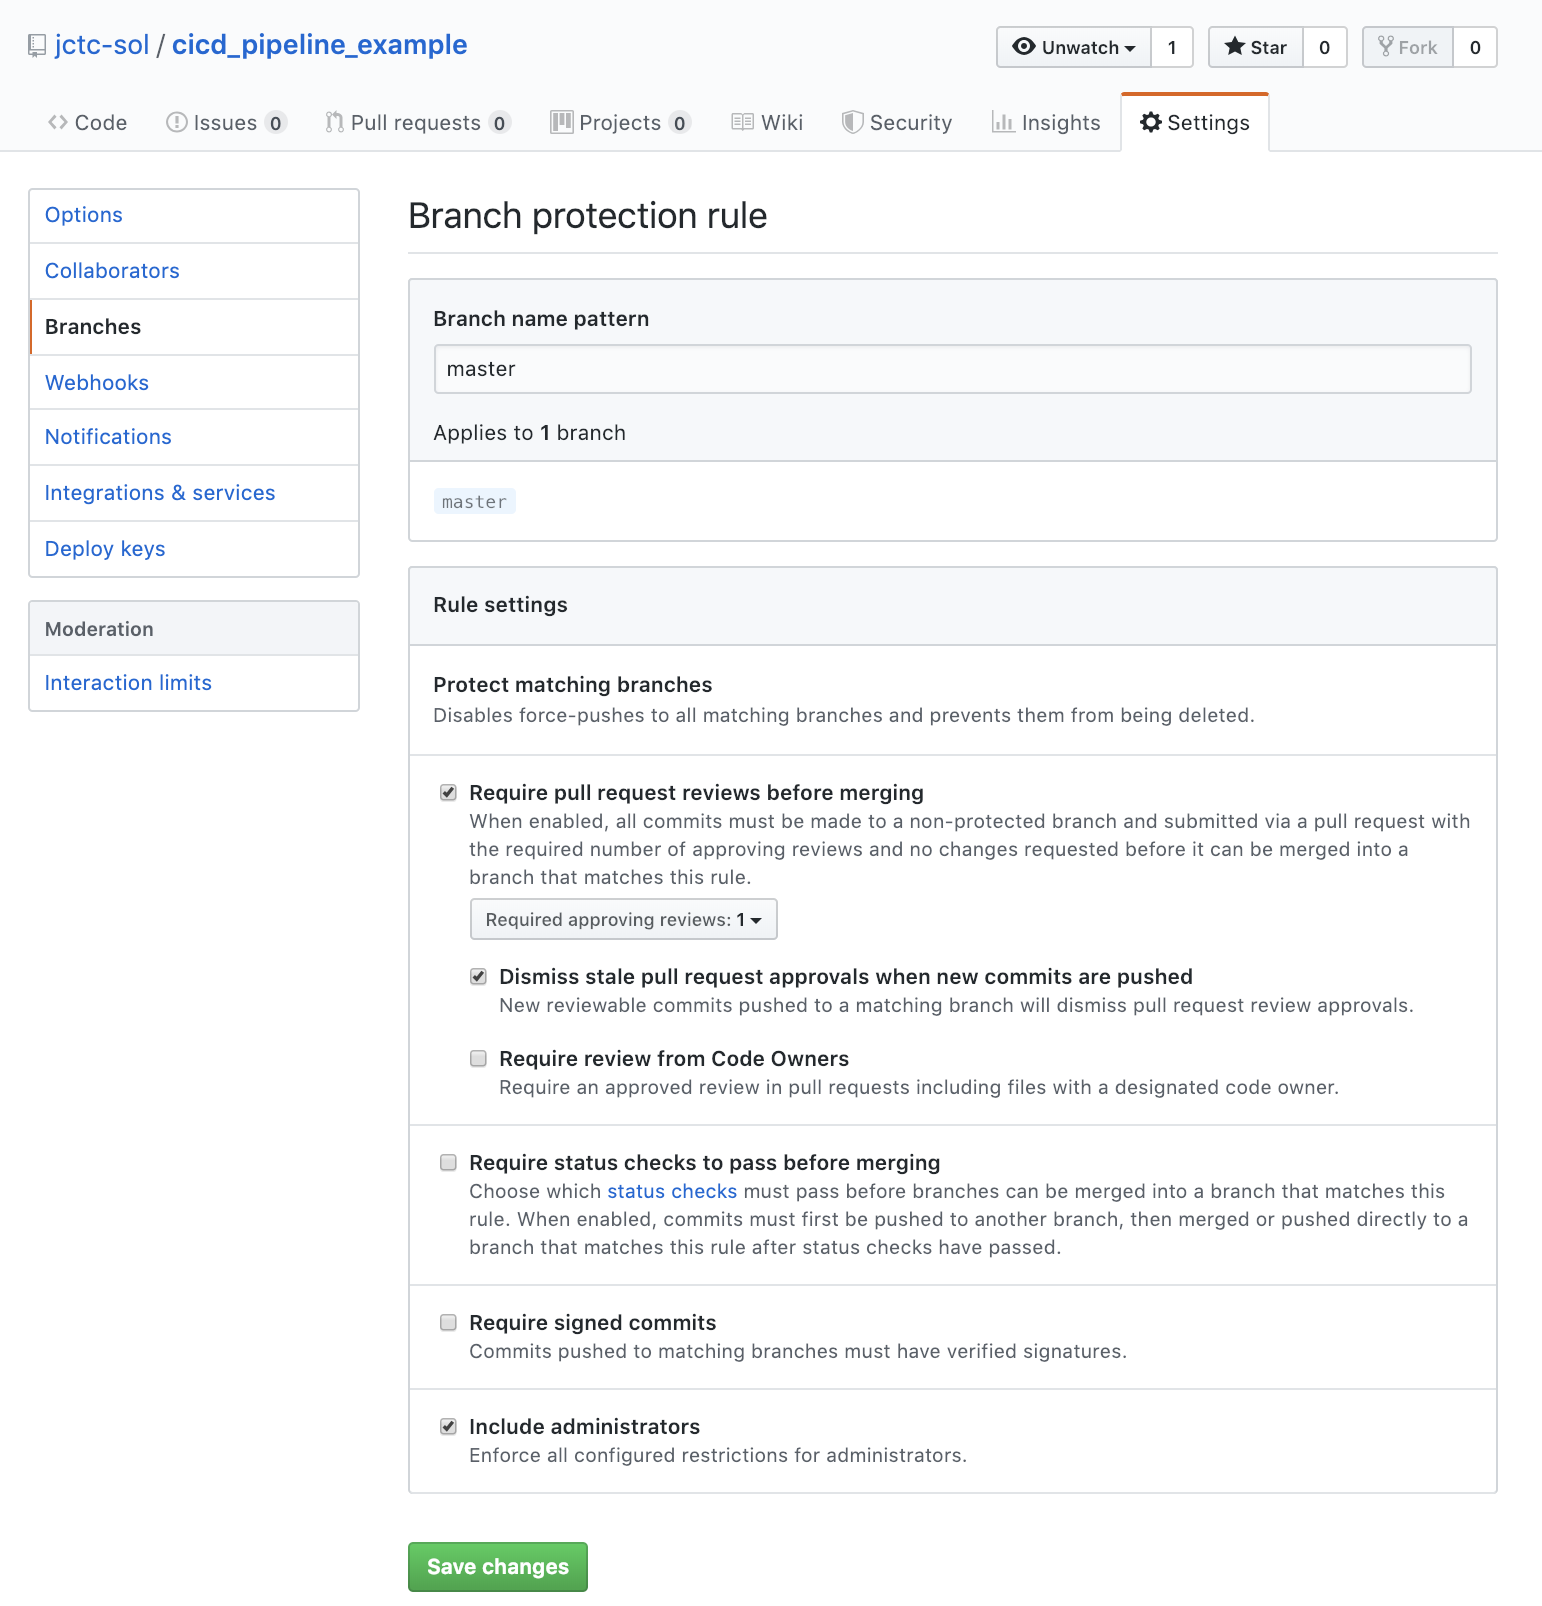
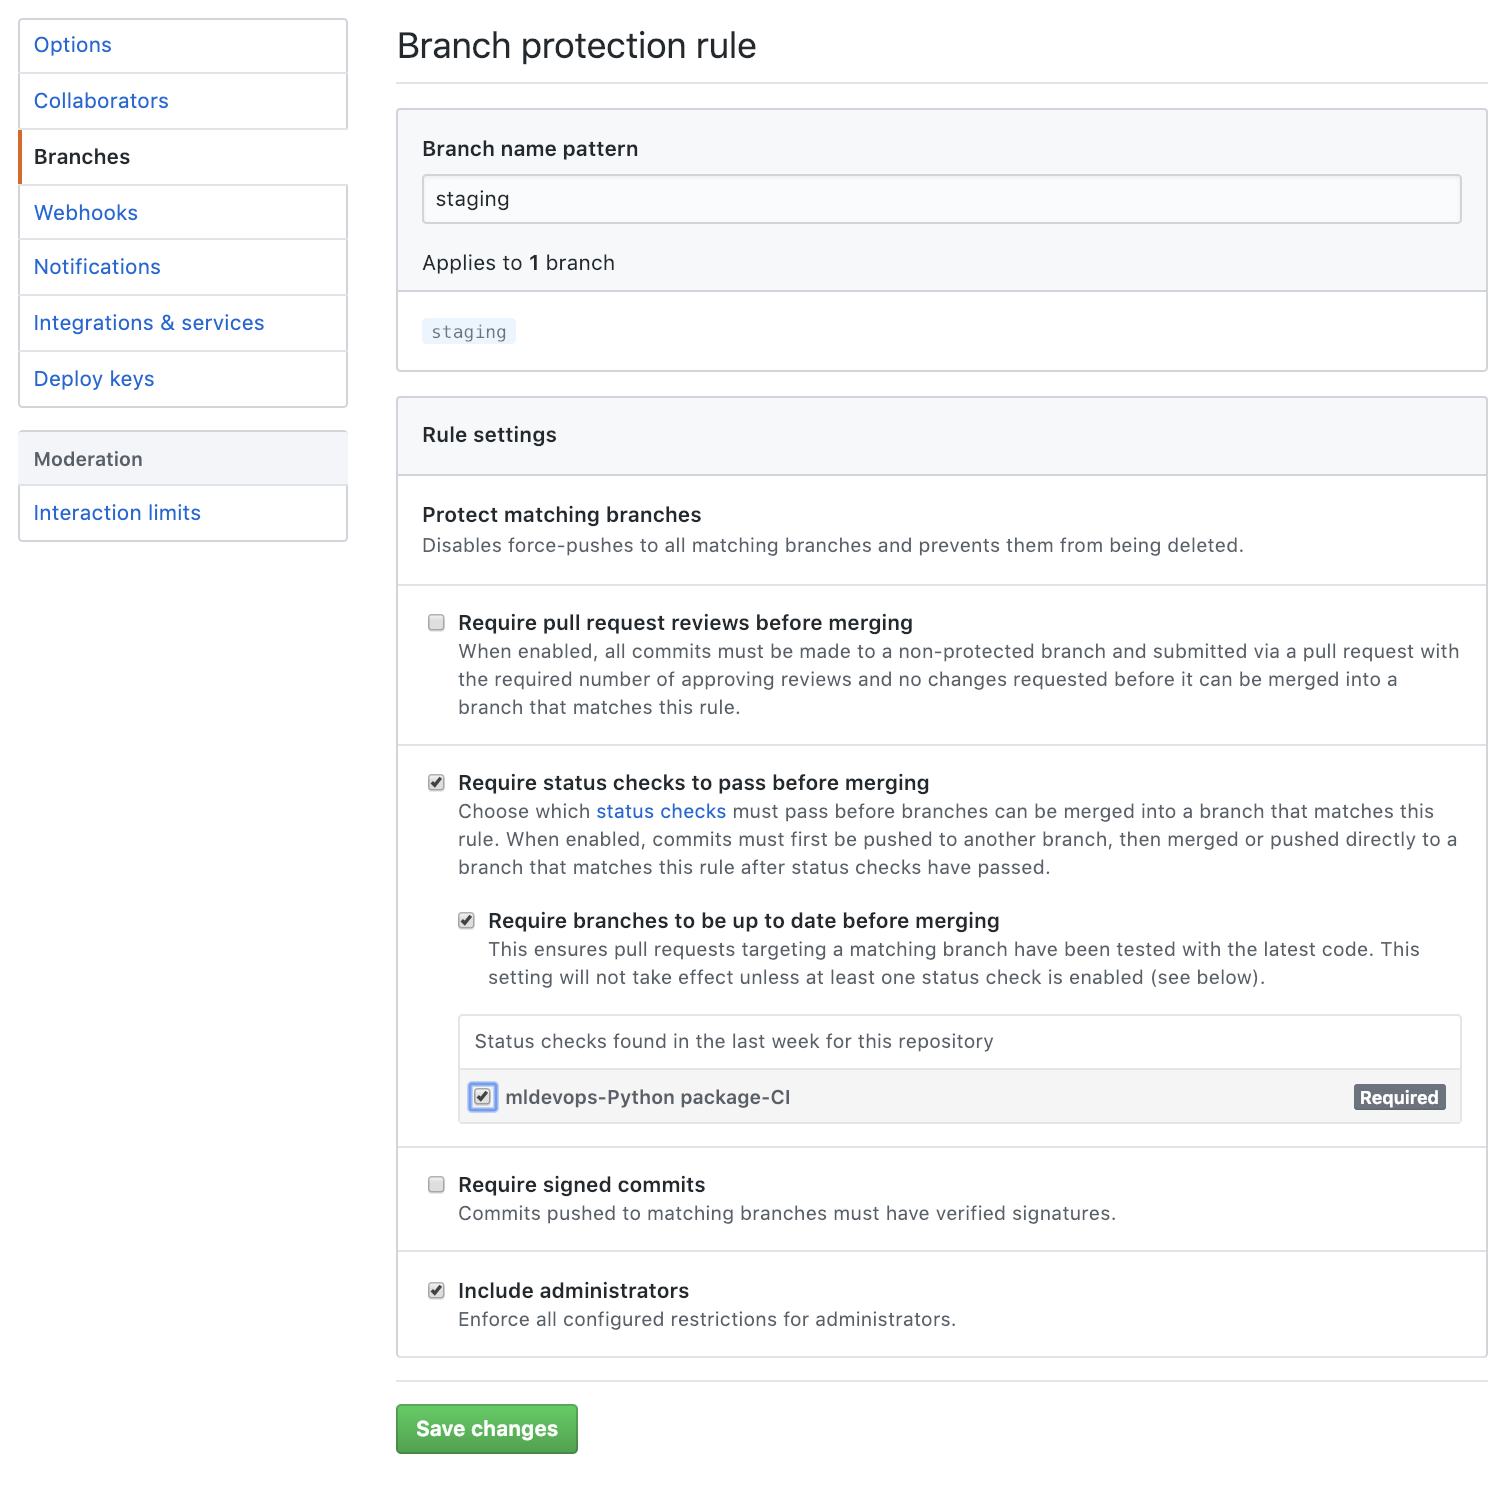
updated README screenshot & instructions

diff --git a/README.md b/README.md
@@ -36,8 +36,11 @@ With multple branches created, we will want to protect our master and staging br
 
 ![Image description](./screenshots/branch_permission_setting.png)
 
-We will create branch protection rules for both the master and staging branches by checking off the ***Require pull request reviews before merging*** plus ***Dismiss stale pull request approvals when new commits are pushed***. Furthermore, we will enforce these rules also upon the administrators. 
 
-(A nice protection to also include might be the ***Require review from Code Owners*** options, which you can read more here: https://help.github.com/en/articles/about-code-owners)
+We will create branch protection rules for both the master and staging branches:
 
-In additional, we will also check off ***Require status checks to pass before merging*** and its sub-checkbox ***Require branches to be up to date before merging***. More details about these status checks later, which will be provided by external build services that will be setup later.
+We will also check off ***Require status checks to pass before merging*** and its sub-checkbox ***Require branches to be up to date before merging***. You likely won't have any status checks in place yet (as shown by the *mldevops-Python package-CI* checkbox in the above screenshot). More details about these status checks later, we will leverage external build services that will in later section.
+
+(Note: If you are working in a team environment, it is a good idea to check off the ***Require pull request reviews before merging*** plus ***Dismiss stale pull request approvals when new commits are pushed***. This provides a mechanism to enforce peer code review process. A nice protection to also include might be the ***Require review from Code Owners*** options, which you can read more here: https://help.github.com/en/articles/about-code-owners)
+
+
